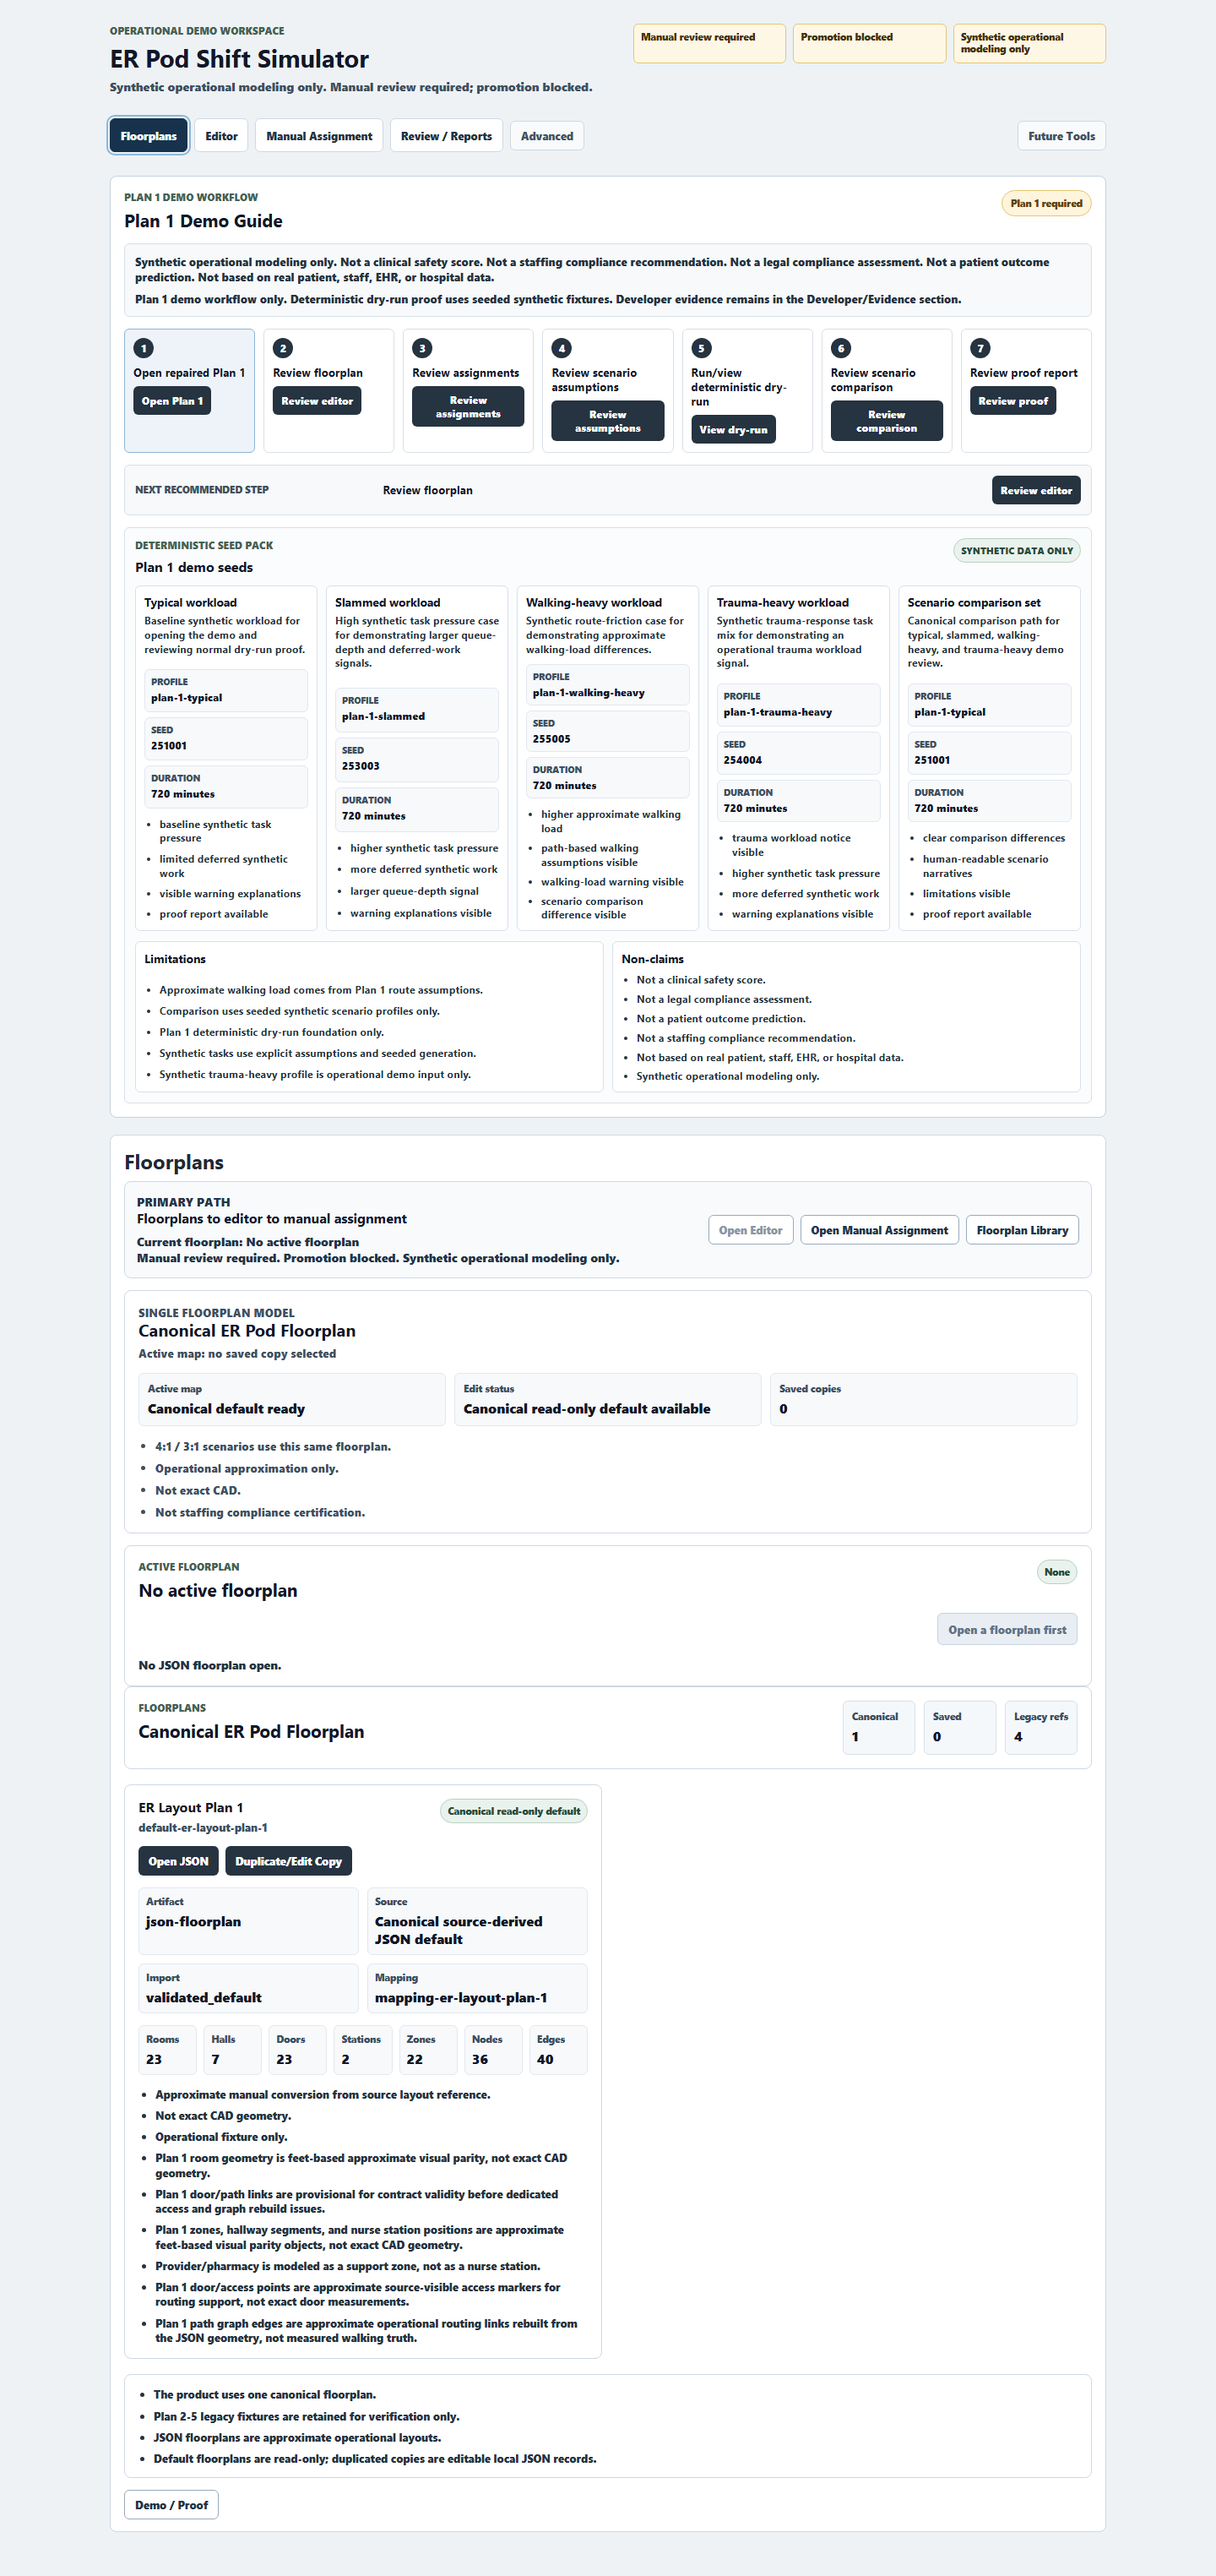
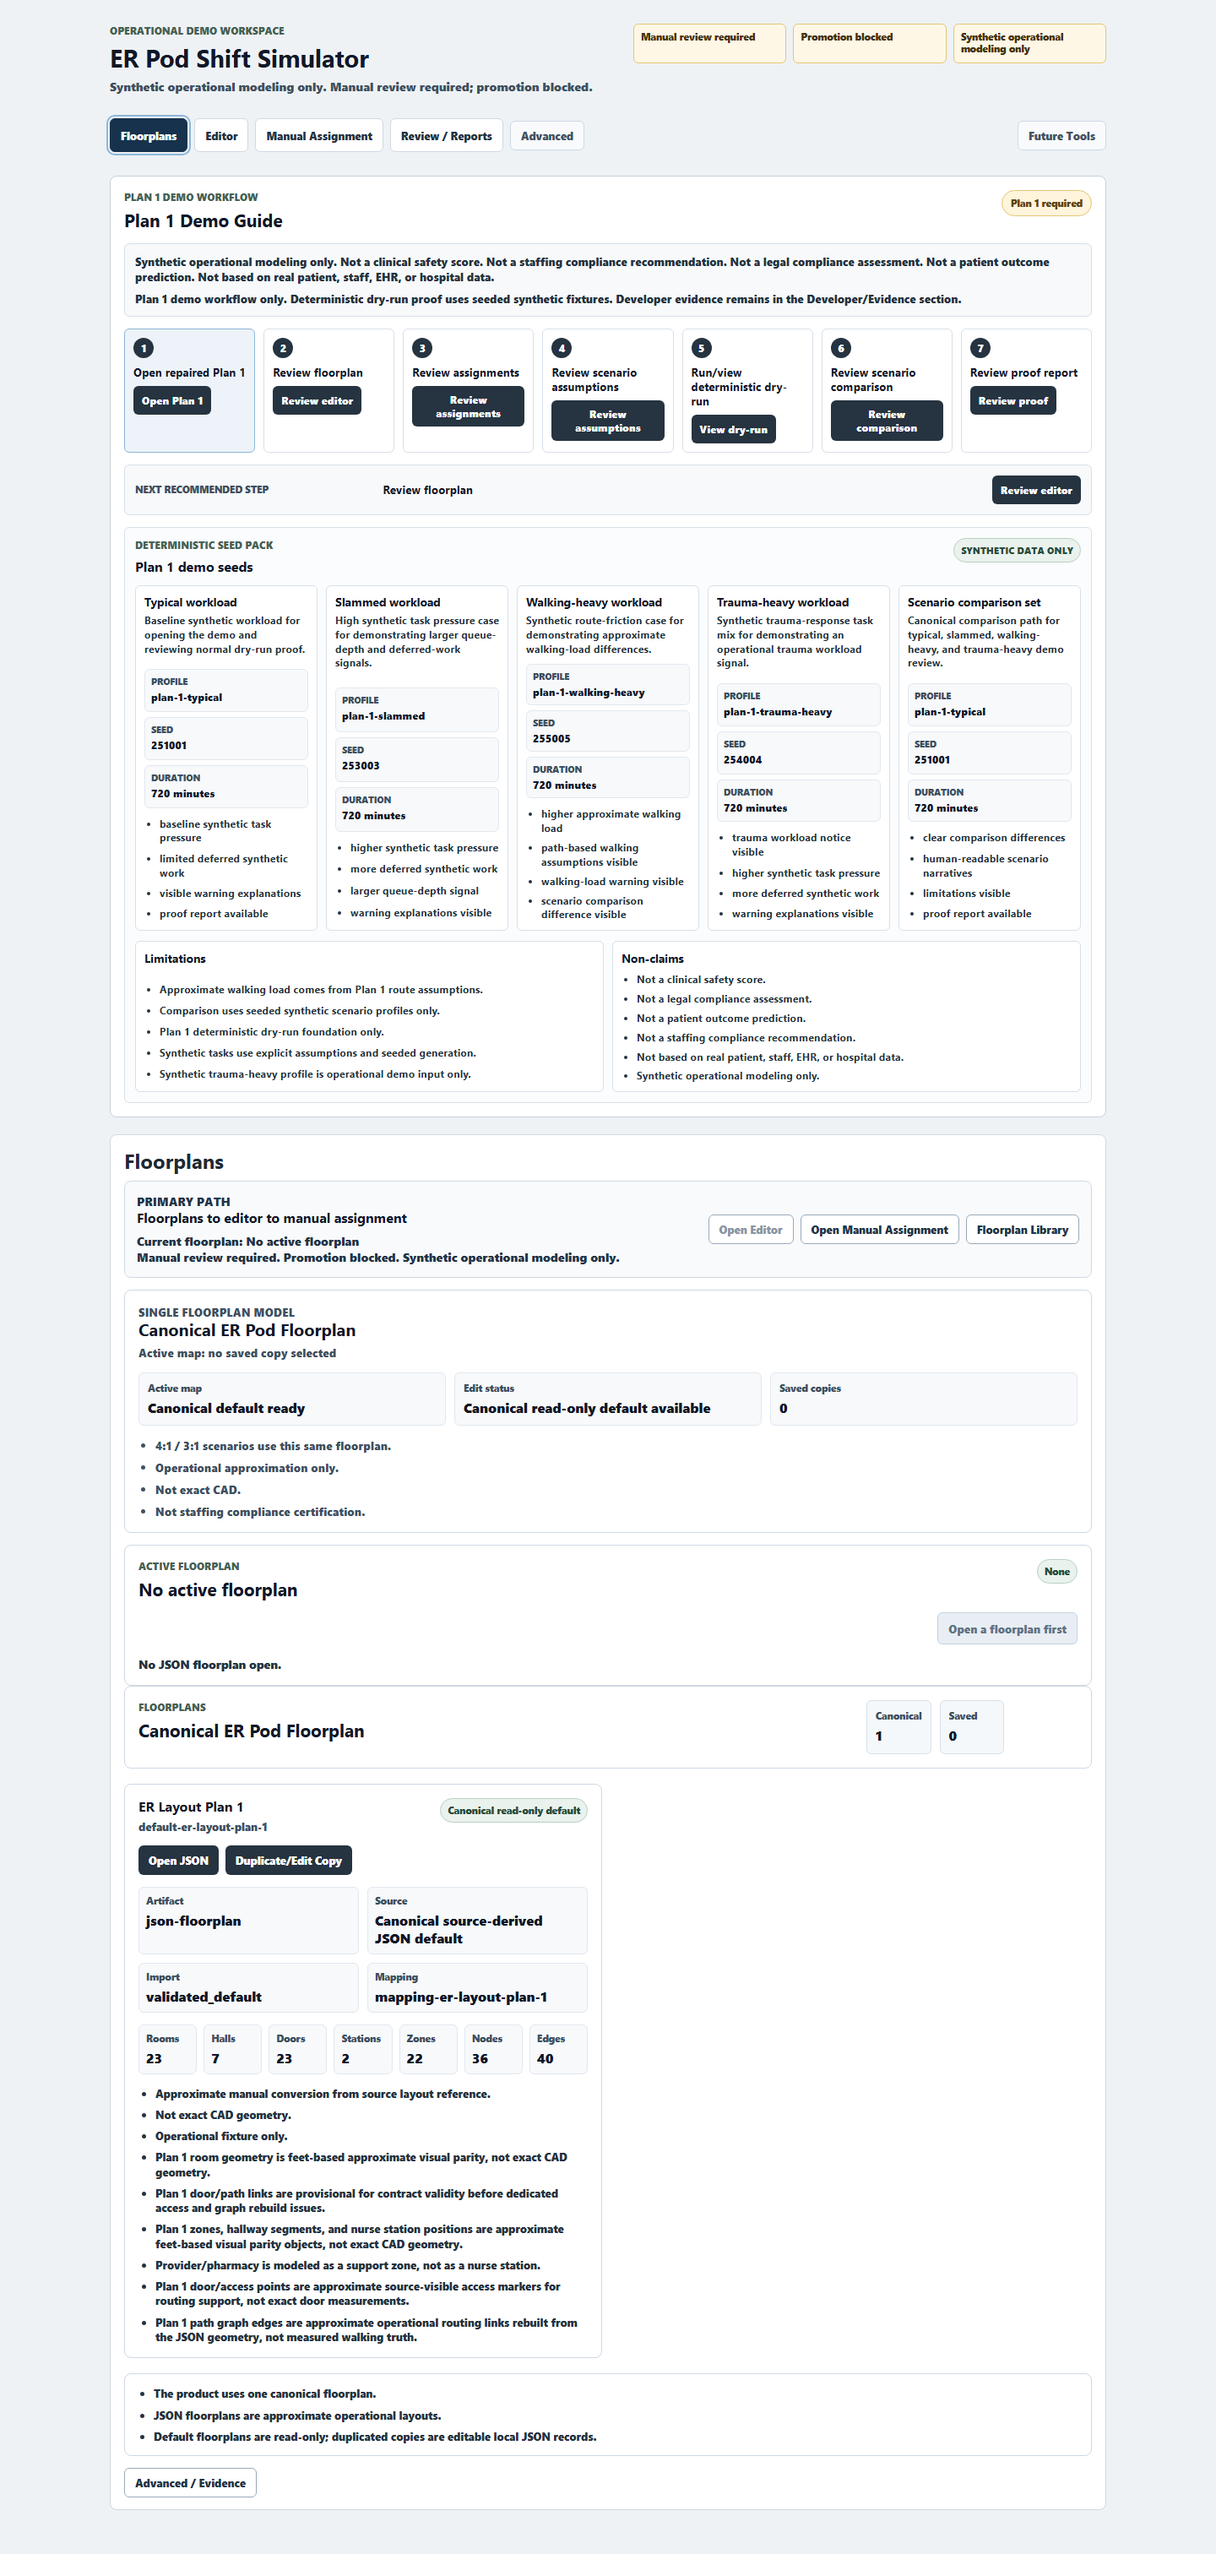
Tighten canonical floorplan UX review fixes

diff --git a/apps/web/src/features/layout-editor/StationShape.tsx b/apps/web/src/features/layout-editor/StationShape.tsx
@@ -36,11 +36,22 @@ export function StationShape({ viewModel, isSelected = false, presentation = fal
             width={viewModel.widthPixels}
             height={viewModel.heightPixels}
           />
-          <path
-            className="layout-editor-stage__station-presentation"
-            data-presentation-style={viewModel.presentationStyle}
-            d={viewModel.presentationPath}
-          />
+          {viewModel.presentationStyle === "curved_desk" ? (
+            <path
+              className="layout-editor-stage__station-presentation"
+              data-presentation-style={viewModel.presentationStyle}
+              d={viewModel.presentationPath}
+            />
+          ) : (
+            <rect
+              className="layout-editor-stage__station-presentation"
+              data-presentation-style={viewModel.presentationStyle}
+              x={viewModel.xPixels}
+              y={viewModel.yPixels}
+              width={viewModel.widthPixels}
+              height={viewModel.heightPixels}
+            />
+          )}
           <rect
             className="layout-editor-stage__station-label-plate"
             x={viewModel.labelPlate.xPixels}

diff --git a/apps/web/tests/canonical-floorplan-visual-proof.spec.ts b/apps/web/tests/canonical-floorplan-visual-proof.spec.ts
@@ -1,0 +1,18 @@
+// Browser-rendered proof is captured by scripts/capture-floorplan-editor-ux-screenshots.mjs.
+// This file records the Issue 449 proof contract without adding a new test runner dependency.
+export const canonicalFloorplanVisualProof = {
+  issue: "449",
+  screenshot: "canonical-floorplan-presentation-proof.png",
+  requiredDomAssertions: [
+    "canonical Plan 1 visible",
+    "legacy default Plans 2-5 hidden from product cards",
+    "saved editable copies remain delete-capable",
+    "default fixtures remain delete-blocked",
+    "presentation mode exposes curved_desk nurse desk paths",
+    "presentation mode exposes nurse desk label plates",
+    "door markers and hallway arrows render in browser proof",
+    "no exact CAD parity claim",
+    "no manual visual approval claim",
+    "no full-shift simulation or optimizer behavior"
+  ]
+} as const;

diff --git a/apps/web/src/features/layout-editor/__tests__/StationShape.test.tsx b/apps/web/src/features/layout-editor/__tests__/StationShape.test.tsx
@@ -61,6 +61,24 @@ if (!textContent(editMode).includes("Primary nurse station")) {
   throw new Error("edit mode must preserve the editable station label");
 }
 
+const rectangularPresentation = StationShape({
+  viewModel: {
+    ...viewModel,
+    objectId: "station-desk",
+    stationType: "desk",
+    presentationStyle: "rectangle",
+    labelPlate: {
+      ...viewModel.labelPlate,
+      label: "Desk"
+    }
+  },
+  presentation: true
+});
+const rectangularPresentationShape = findByClass(rectangularPresentation, "layout-editor-stage__station-presentation");
+if (rectangularPresentationShape?.type !== "rect") {
+  throw new Error("rectangle presentation style must render a rectangle instead of the curved desk path");
+}
+
 type TestElement = {
   type?: unknown;
   props?: {

diff --git a/apps/web/src/features/layout-editor/stationPresentationStyle.ts b/apps/web/src/features/layout-editor/stationPresentationStyle.ts
@@ -18,7 +18,7 @@ export type StationLabelPlateViewModel = {
 };
 
 export function stationPresentationStyleForType(stationType: string): StationPresentationStyle {
-  return stationType === "nurse_station" ? "curved_desk" : "rectangle";
+  return isNurseDeskStationType(stationType) ? "curved_desk" : "rectangle";
 }
 
 export function buildCurvedDeskPresentationPath(rect: StationRectPixels): string {
@@ -58,4 +58,8 @@ export function createStationLabelPlate(rect: StationRectPixels & { label: strin
 
 function round(value: number): number {
   return Math.round(value * 100) / 100;
+}
+
+function isNurseDeskStationType(stationType: string): boolean {
+  return stationType === "nurse_station" || stationType === "primary" || stationType === "secondary";
 }

diff --git a/apps/web/src/features/floorplans/__tests__/FloorplanLibrary.test.tsx b/apps/web/src/features/floorplans/__tests__/FloorplanLibrary.test.tsx
@@ -17,6 +17,12 @@ if (!source.includes("Canonical ER Pod Floorplan") && !source.includes("viewMode
 if (source.includes("<dt>Defaults</dt>")) {
   throw new Error("FloorplanLibrary normal totals must not present Defaults: 5");
 }
+if (source.includes("<dt>Legacy refs</dt>")) {
+  throw new Error("FloorplanLibrary normal totals must not advertise legacy references");
+}
+if (JSON.stringify(viewModel.floorplans).includes("default-er-layout-plan-2")) {
+  throw new Error("FloorplanLibrary normal cards must not include legacy Plan 2");
+}
 if (viewModel.floorplans.length !== 1 || viewModel.floorplans[0]?.planId !== "default-er-layout-plan-1") {
   throw new Error("FloorplanLibrary view model must expose only the canonical default in product mode");
 }

diff --git a/apps/web/src/features/layout-editor/__tests__/stationPresentationStyle.test.ts b/apps/web/src/features/layout-editor/__tests__/stationPresentationStyle.test.ts
@@ -7,6 +7,12 @@ import {
 if (stationPresentationStyleForType("nurse_station") !== "curved_desk") {
   throw new Error("nurse station presentation style must be curved_desk");
 }
+if (stationPresentationStyleForType("primary") !== "curved_desk") {
+  throw new Error("canonical primary nurse stations must use curved_desk presentation style");
+}
+if (stationPresentationStyleForType("secondary") !== "curved_desk") {
+  throw new Error("canonical secondary nurse stations must use curved_desk presentation style");
+}
 if (stationPresentationStyleForType("other_station") !== "rectangle") {
   throw new Error("non-nurse station presentation style must fall back to rectangle");
 }

diff --git a/apps/web/src/App.tsx b/apps/web/src/App.tsx
@@ -167,7 +167,7 @@ export function App({ initialSection = DEFAULT_APP_SECTION_ID }: AppProps) {
             onDeleteSavedPlan={deleteSaved}
           />
           <details className="floorplan-demo-proof">
-            <summary>Demo / Proof</summary>
+            <summary>Advanced / Evidence</summary>
             <PlanBuilderLanding
               onOpenDefaultPlan={openDefault}
               onOpenReviewCandidate={openReviewCandidate}

diff --git a/apps/web/src/features/floorplans/floorplanLibraryViewModel.ts b/apps/web/src/features/floorplans/floorplanLibraryViewModel.ts
@@ -135,7 +135,6 @@ export function createFloorplanLibraryViewModel(
     },
     limitationsSummary: [
       "The product uses one canonical floorplan.",
-      "Plan 2-5 legacy fixtures are retained for verification only.",
       "JSON floorplans are approximate operational layouts.",
       "Default floorplans are read-only; duplicated copies are editable local JSON records."
     ]

diff --git a/apps/web/src/features/layout-editor/stationShapeViewModel.ts b/apps/web/src/features/layout-editor/stationShapeViewModel.ts
@@ -55,7 +55,7 @@ export function buildStationShapeViewModel(item: LayoutObjectRenderItem): Statio
       yPixels,
       widthPixels,
       heightPixels,
-      label: source.stationType === "nurse_station" ? "Nurses station" : source.label
+      label: presentationStyle === "curved_desk" ? "Nurses station" : source.label
     })
   };
 }

diff --git a/apps/web/src/features/floorplans/FloorplanLibrary.tsx b/apps/web/src/features/floorplans/FloorplanLibrary.tsx
@@ -43,10 +43,6 @@ export function FloorplanLibrary({
             <dt>Saved</dt>
             <dd>{viewModel.totals.editableSavedPlanCount}</dd>
           </div>
-          <div>
-            <dt>Legacy refs</dt>
-            <dd>{viewModel.totals.protectedLegacyDefaultPlanCount}</dd>
-          </div>
         </dl>
       </div>
 
